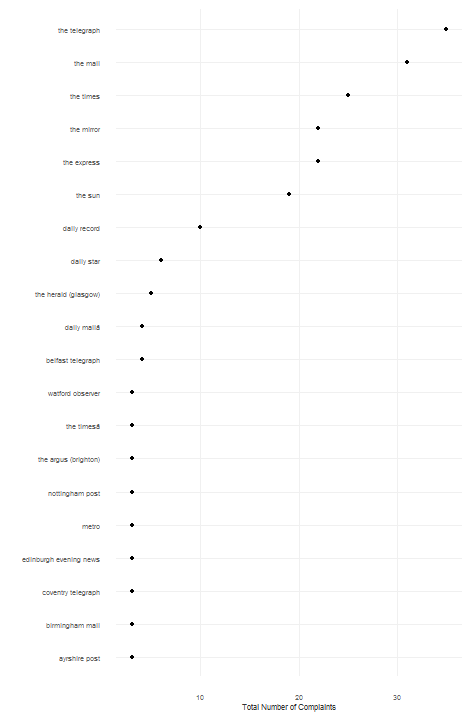
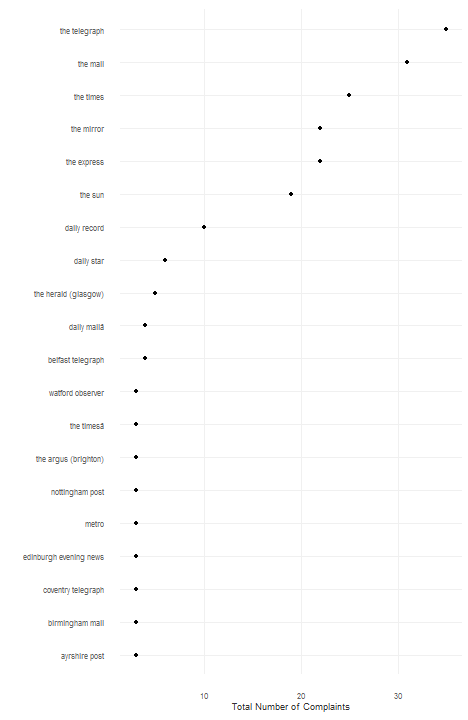
larger font size

diff --git a/readme.md b/readme.md
@@ -95,10 +95,10 @@ theme(panel.grid.minor=element_blank()) +
 theme(axis.ticks=element_blank()) +
 theme(legend.position="none") +
 theme(plot.title=element_text(color="#525252", size=10, vjust=1.25)) +
-theme(axis.text.x=element_text(size=7, color="#636363")) +
-theme(axis.text.y=element_text(size=7, color="#636363")) +
-theme(axis.title.x=element_text(size=8, color="#323232", vjust=0)) +
-theme(axis.title.y=element_text(size=8, color="#323232", vjust=1.25)) +
+theme(axis.text.x=element_text(size=8, color="#636363")) +
+theme(axis.text.y=element_text(size=8, color="#636363")) +
+theme(axis.title.x=element_text(size=9, color="#323232", vjust=0)) +
+theme(axis.title.y=element_text(size=9, color="#323232", vjust=1.25)) +
 theme(plot.margin = unit(c(0.35, 0.2, 0.3, 0.35), "cm"))
 ```
 
@@ -129,10 +129,10 @@ theme(panel.grid.minor=element_blank()) +
 theme(axis.ticks=element_blank()) +
 theme(legend.position="none") +
 theme(plot.title=element_text(color="#525252", size=10, vjust=1.25)) +
-theme(axis.text.x=element_text(size=7, color="#636363")) +
-theme(axis.text.y=element_text(size=7, color="#636363")) +
-theme(axis.title.x=element_text(size=8, color="#323232", vjust=0)) +
-theme(axis.title.y=element_text(size=8, color="#323232", vjust=1.25)) +
+theme(axis.text.x=element_text(size=8, color="#636363")) +
+theme(axis.text.y=element_text(size=8, color="#636363")) +
+theme(axis.title.x=element_text(size=9, color="#323232", vjust=0)) +
+theme(axis.title.y=element_text(size=9, color="#323232", vjust=1.25)) +
 theme(plot.margin = unit(c(0.35, 0.2, 0.3, 0.35), "cm"))
 ```
 
@@ -163,10 +163,10 @@ theme(panel.grid.minor=element_blank()) +
 theme(axis.ticks=element_blank()) +
 theme(legend.position="none") +
 theme(plot.title=element_text(color="#525252", size=10, vjust=1.25)) +
-theme(axis.text.x=element_text(size=7, color="#636363")) +
-theme(axis.text.y=element_text(size=7, color="#636363")) +
-theme(axis.title.x=element_text(size=8, color="#323232", vjust=0)) +
-theme(axis.title.y=element_text(size=8, color="#323232", vjust=1.25)) +
+theme(axis.text.x=element_text(size=8, color="#636363")) +
+theme(axis.text.y=element_text(size=8, color="#636363")) +
+theme(axis.title.x=element_text(size=9, color="#323232", vjust=0)) +
+theme(axis.title.y=element_text(size=9, color="#323232", vjust=1.25)) +
 theme(plot.margin = unit(c(0.35, 0.2, 0.3, 0.35), "cm"))
 ```
 
